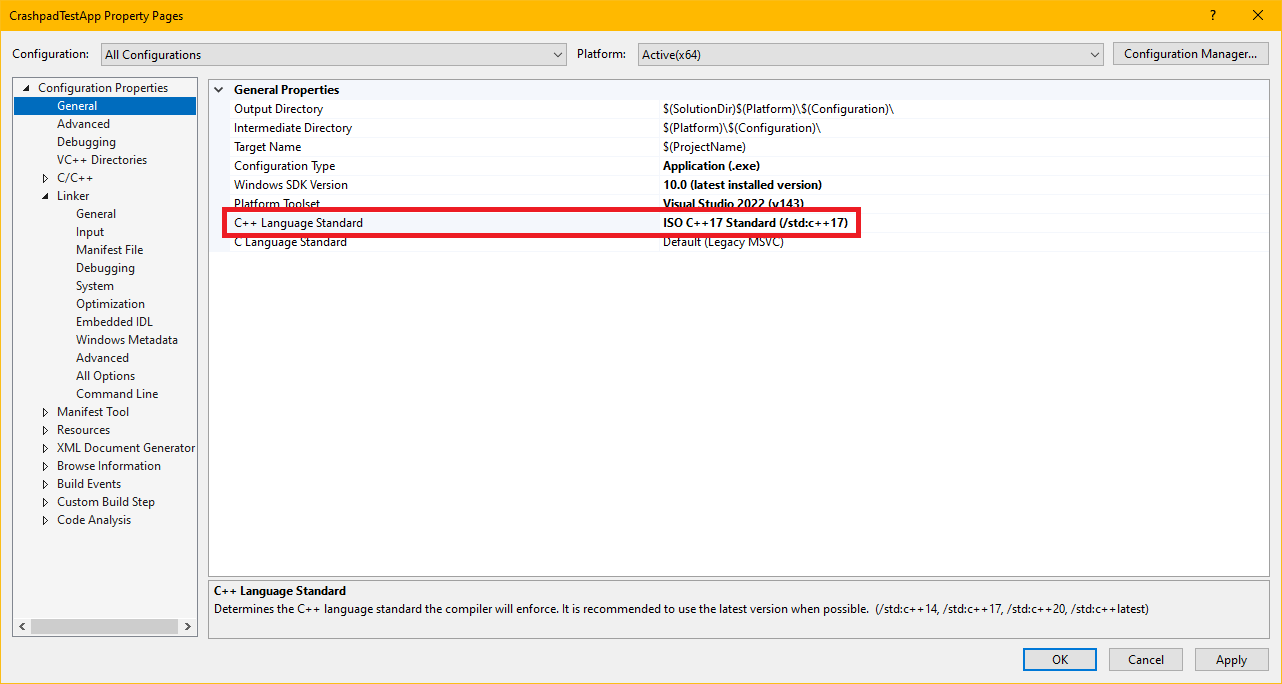
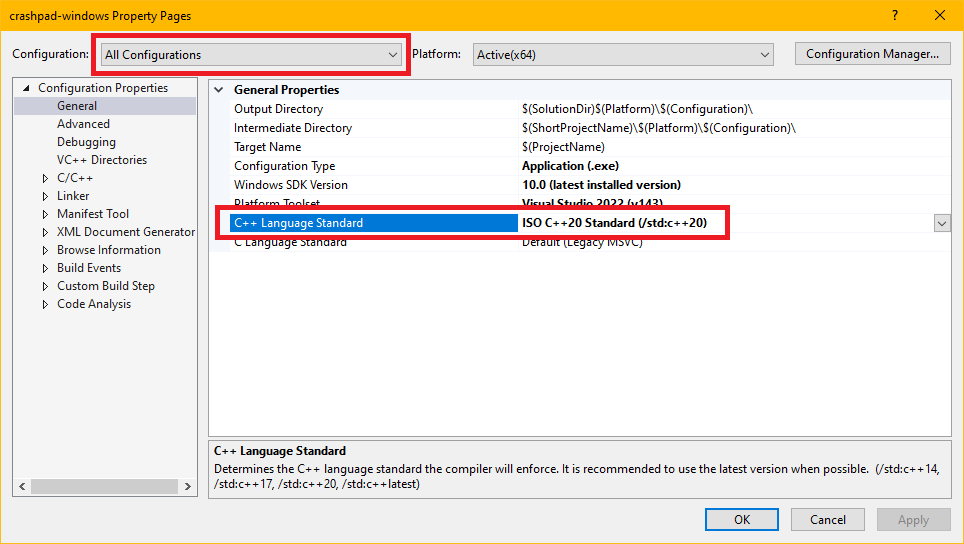
error-reporting/crashpad: update crashpad integration guide
* Reference the integration guide for VS, rather than the nonexistent
   extension.
 * Replace "daily binary builds" with "binary builds".
 * Remove outdated Visual Studio integration guide in crashpad.md and point
   to the updated one in visual-studio.md instead.
 * Updated documentation and corresponding image to specify /std:c++20
   which is now required by Crashpad.
 * Updated documention and corresponding image to specify /DEBUG:FULL and
   not /DEBUG as the latter won't generate proper debug information that
   is usable for distribution.
 * Added section on usage of pre-built binaries hosted in github.

Internal BT-5803

Changed region(s): [[0.0, 0.0, 1.0, 1.0]]

diff --git a/docs/error-reporting/platform-integrations/crashpad.md b/docs/error-reporting/platform-integrations/crashpad.md
@@ -23,9 +23,9 @@ For new users, Backtrace has prepared an enhanced fork of Crashpad, allowing eas
 
 ## Initial Integration
 
-If you are a Windows and Visual Studio user, review the [Backtrace Visual Studio Extension Guide](/error-reporting/platform-integrations/visual-studio/) to simplify the integration of Crashpad into your new application. If you are a Windows and Visual Studio user with an existing application, you can use manual instructions in the Visual Studio section of that guide for a step-by-step guide to integrating with Visual Studio.
+If you are a Windows and Visual Studio user, review the [Crashpad Integration Guide for Visual Studio](/error-reporting/platform-integrations/visual-studio/) to simplify the integration of Crashpad into your new or existing application.
 
-Advanced instructions are available at [the Crashpad home page](https://chromium.googlesource.com/crashpad/crashpad/+/HEAD/doc/developing.md) if you can't find what you're looking for or prefer to build Crashpad from the source. Backtrace's fork of Crashpad is available [on Github](https://github.com/backtrace-labs/crashpad/tree/backtrace), which contains easy [CMake](https://cmake.org/) build instructions and also hosts [daily binary builds for Android, Linux, Windows, Mac and more](https://github.com/backtrace-labs/crashpad/actions). If you would like additional assistance, don't hesitate to contact support@saucelabs.com.
+Advanced instructions are available at [the Crashpad home page](https://chromium.googlesource.com/crashpad/crashpad/+/HEAD/doc/developing.md) if you can't find what you're looking for or prefer to build Crashpad from the source. Backtrace's fork of Crashpad is available [on Github](https://github.com/backtrace-labs/crashpad/tree/backtrace), which contains easy [CMake](https://cmake.org/) build instructions and also hosts [binary builds for Android, Linux, Windows, Mac and more](https://github.com/backtrace-labs/crashpad/releases). If you would like additional assistance, don't hesitate to contact support@saucelabs.com.
 
 ### Update Your Application
 
@@ -65,7 +65,7 @@ arguments.push_back(
 
 ### Crash Handler Parameter
 
-`handler` is a path to an external program responsible for generating and uploading dumps; we recommend it for uploading crashes. Look for `bin/crashpad_handler.exe` on Windows, which is suitable as a default crash handler. See below for a complete example.
+`handler` is a path to an external program responsible for generating and uploading dumps; we recommend it for uploading crashes. Look for `bin/crashpad_handler.exe` on Windows, which is suitable as a default crash handler.
 
 `handler` is executed after the application crashes, so it should be available under the specified path during its execution. That means the handler should be bundled with the application if delivered to the end-users, and its path should be relative or dynamically generated.
 
@@ -73,128 +73,18 @@ arguments.push_back(
 
 See [Windows](https://github.com/backtrace-labs/crashpad/blob/backtrace/examples/windows/demo/demo.cpp), [macOS](https://github.com/backtrace-labs/crashpad/blob/backtrace/examples/macos/demo/demo.cpp), [Android](https://github.com/backtrace-labs/backtrace-android/blob/cf9d827bada51bf4332e2904b0ea06d39b99db8a/backtrace-library/src/main/cpp/backends/crashpad-backend.cpp#L124) and [Linux](https://github.com/backtrace-labs/crashpad/blob/backtrace/examples/linux/demo/demo.cpp) for self-contained example code.
 
-## Manage Symbols
+### Manage Symbols
 
 Symbols are required to determine the source-code mapping of incoming crashes, including function name, source file, and line number. For Backtrace to effectively group and analyze your incoming crashes, you must upload application debug symbols.
 
 To learn more about uploading and managing symbols with Backtrace, see [Symbolication](/error-reporting/project-setup/symbolication/).
 
-## Visual Studio
-
-If you are a Windows and Visual Studio user, review the [Backtrace Visual Studio Extension Guide](/error-reporting/platform-integrations/visual-studio/) to simplify the integration of Crashpad into your application.
-
-:::note
-
-The instructions below are accurate, but consider the extension to minimize the chance of configuration errors.
-
-:::
-
-### Obtain Crashpad
-
-You can build Crashpad from the source or download Backtrace-provided library versions.
-
-:::caution For Windows (x86)
-
-The Visual C++ Redistributable for Visual Studio 2015 might be required if you have a new OS installation and don't have an IDE installed. Make sure to install the following runtime redistributable files for `BacktraceCrashpadWindows.dll`:
-
-```
-  KERNEL32.dll
-    MSVCP140.dll
-    VCRUNTIME140.dll
-    api-ms-win-crt-runtime-l1-1-0.dll
-    api-ms-win-crt-string-l1-1-0.dll
-    api-ms-win-crt-heap-l1-1-0.dll
-    api-ms-win-crt-stdio-l1-1-0.dll
-    api-ms-win-crt-time-l1-1-0.dll
-    api-ms-win-crt-filesystem-l1-1-0.dll
-    ADVAPI32.dll
-```
-
-:::
-
-#### Build From Source
-
-It is always possible to build Crashpad from the source. To do this, see the [Backtrace fork build guide](https://github.com/backtrace-labs/crashpad/blob/backtrace/README.md). Backtrace added [CMake](https://cmake.org/) build scripts, making it easier to build than the original Google fork. If you want to build the Google fork regardless, you can check the [instructions](https://chromium.googlesource.com/crashpad/crashpad/+/HEAD/doc/developing.md).
-
-#### Download Built Libraries
-
-Backtrace provides builds of Crashpad. We recommend using the stable version. The latest stable releases of Backtrace's Crashpad fork are available at [https://github.com/backtrace-labs/crashpad/releases/](https://github.com/backtrace-labs/crashpad/releases/), and the Backtrace fork nightly builds can be found [on GitHub](https://github.com/backtrace-labs/crashpad/actions).
-
-### Integrate Crashpad
-
-After you have built Crashpad or downloaded the pre-built libraries, you must integrate the library into your application. The library is statically linked to your project, so you will not need to distribute additional projects.
-
-There are two versions of `Crashpad` provided in the Backtrace archive.
-
-`lib_mt` contains the Crashpad libraries built with the `/MT` switch for static linking. `lib_md` contains the Crashpad libraries built with the `/MD` switch for dynamic linking.
-
-Use the appropriate version for your application.
-
-### Integrate Into Your Build Process
-
-This section outlines importing the `Crashpad` library into your Visual Studio project.
-
-### Add the Header Files
-
-First, you'll need to add the Crashpad directory in the included path for your application. The header files for Crashpad in the provided `.zip` file are in the included directory.
-
-Go to the project configuration menu (Project > Properties > VC++ Directories) and set `Include Directories` to point to the `include` and `include\mini_chromium` folders of the extracted archive, as shown below.
-
-<img src={useBaseUrl('/img/error-reporting/minidump/include-directories.png')} alt="set include directories"/>
-
-### Add the Libraries
-
-#### Static Linking
-
-Next, you'll need to add the relevant release path (see the table above) to your `Library Directories`(Project > Properties > VC++ Directories). For example, if I am deploying a 64-bit Windows application, the `lib_mt`sub-directory is added to `Library Directories` after downloading the appropriate Crashpad build.
-
-<img src={useBaseUrl('/img/error-reporting/minidump/library-static-linking.png')} alt="library directories"/>
-
-After that is done, you'll need to add the actual set of static libraries for `Crashpad`. Navigate to your linker input settings (Project > Properties > Linker > Input), and add `client.lib;util.lib;base.lib` as additional dependencies. See the screenshot below for an example.
-
-<img src={useBaseUrl('/img/error-reporting/minidump/additional-dependencies.png')} alt="additional dependencies"/>
-
-Remember to use the build of the `Crashpad` library that corresponds with your build configuration. For example, if you are building a 32-bit Debug build, ensure that you reference the `.lib` files from the 32-bit debug build. If you encounter errors involving `ITERATOR_DEBUG_LEVEL`, then there is likely a mismatch between your build configuration and the build of `Crashpad`. To change the build settings, go to Build > Configuration Manager, then change your `Active solution configuration`.
-
-#### Dynamic Linking
-
-If you use dynamic linking (the `\MD` flag), use the `lib_md` sub-directory rather than `lib_mt`. For example, `crashpad\lib_md` rather than `crashpad\lib_mt`.
-
-<img src={useBaseUrl('/img/error-reporting/minidump/dynamic-linking.png')} alt="dynamic linking"/>
-
-### Verify Linker Settings
-
-#### Static Linking
-
-Lastly, ensure you have code generation runtime settings set to a mode compatible with static libraries, such as `Multi-threaded (/MT)`. Go to Project > Properties > C/C++ > Code Generation and update the `Runtime Library` setting.
-
-<img src={useBaseUrl('/img/error-reporting/minidump/runtime-library.png')} alt="runtime library"/>
-
-#### Dynamic Linking
-
-If you are using dynamic linking, then ensure that you use the `/MD` option instead of `/MT`.
-
-### Debug Builds
-
-If you are building in debug mode, ensure that you use the debug version of the linking compiler switches (`/MDd` and `/MTd`):
-
-<img src={useBaseUrl('/img/error-reporting/minidump/debug-build.png')} alt="debug mode"/>
-
-### Ensure Symbol Generation
-
-It is required to upload symbols into Backtrace for intelligent deduplication and classification. This section explains how to enable debug symbols for your application.
-
-Go to Project > Properties > Linker and update the `Generate Debug Info` setting. You'll want to set it to `Generate Debug Information (/DEBUG)` or `Generate Debug Information optimized for sharing and publishing (/DEBUG:FULL)`. We recommend the `/DEBUG` option if you would like to avoid the possibility of a performance impact.
-
-<img src={useBaseUrl('/img/error-reporting/minidump/general-debug-info.png')} alt="debug mode"/>
-
-This setting generates a `.pdb` file for your application in the build output directory. You can manually upload `.sym`, `.pdb`, and archive files containing `.pdb` or `.sym` files into Backtrace or through the command line. It is also possible to hook up Visual Studio to automatically upload symbols as they are generated. Now, you should be able to send crash reports. Ensure you've uploaded your symbols (click on **Symbols** under the Project Configuration page).
-
-For more details, see [Symbolication](/error-reporting/project-setup/symbolication/).
+For Visual Studio specific settings for symbols, see [Crashpad Integration Guide for Visual
+Studio](/error-reporting/platform-integrations/visual-studio/#ensure-symbol-generation).
 
 ### Send Crash Reports
 
-Now you're ready to integrate Crashpad into your application. Add the code from the section [Example code](#example-code) above to do this.
+Now you're ready to integrate Crashpad into your application. Add the code from the section [Example code](#example-code) above or from [Crashpad Integration Guide for Visual Studio](/error-reporting/platform-integrations/visual-studio/#code-samples) to do this.
 
 ### Finish
 

diff --git a/docs/error-reporting/platform-integrations/visual-studio.md b/docs/error-reporting/platform-integrations/visual-studio.md
@@ -29,7 +29,7 @@ cmake --build cbuild --config Release
 
 ### Set Language Standard
 
-Crashpad requires C++17. In project properties, select `All Configurations` and change the C++ Language Standard in the General tab from the default `C++14` to `C++17 (/std:c++17)`, if necessary.
+Crashpad requires C++20. In project properties, select `All Configurations` and change the C++ Language Standard in the General tab from the default `C++14` to `C++20 (/std:c++20)`, if necessary.
 <img src={useBaseUrl('/img/error-reporting/vs-extension/vs-lang.png')} alt="listeners"/>
 
 ### Set Additional Include Directories
@@ -64,10 +64,48 @@ Or, if the configurations are named `Debug` and `Release` then this can be simpl
 
 <img src={useBaseUrl('/img/error-reporting/vs-extension/vs-link.png')} alt="listeners"/>
 
+### Ensure Symbol Generation
+
+It is required to upload symbols into Backtrace for intelligent deduplication and classification. This section explains how to enable debug symbols for your application.
+
+For Windows, Go to Project > Properties > Linker and update the `Generate Debug Info` setting. You'll want to set it to `Generate Debug Information optimized for sharing and publishing (/DEBUG:FULL)`.
+
+<img src={useBaseUrl('/img/error-reporting/minidump/general-debug-info.png')} alt="debug mode"/>
+
+This setting generates a `.pdb` file for your application in the build output directory. You can manually upload `.sym`, `.pdb`, and archive files containing `.pdb` or `.sym` files into Backtrace or through the command line. It is also possible to hook up Visual Studio to automatically upload symbols as they are generated. Be sure to upload the corresponding `.dll` or `.exe` along with the `.pdb`.
+
+## Alternative Integration
+
+### Pre-built Binaries
+
+To use the prebuilt static library and handler from GitHub follow these steps.
+
+:::note
+
+Because crashpad is built in CI as a static library against a single version of Visual Studio there are no guarantees that the library is compatible with later (or even different) versions of Visual Studio. It is recommended to build the distribution, as documented above, against your specific toolchain for debug and release configurations for maximum compatibilty.
+
+:::
+
+Extract the Visual Studio build from [releases](https://github.com/backtrace-labs/crashpad/releases) to your project's `third_party\crashpad` directory.
+
+### Set Additional Include Directories
+
+Add the following include directories in your Visual Studio project for all configurations in C/C++, Additional Include Directories:
+
+- `third_party\crashpad\include`
+
+### Add Additional Library Dependencies
+
+Add the following libraries in the project's Linker, Input, Additional Dependencies for all
+configurations
+
+- `third-party\crashpad\bin\client.lib`
+
 
 ## Code Samples
 
-The following code can be added to your project and can be used to initialize Crashpad in your application.
+For either integration documented above, the following code can be added to your project and can be
+used to initialize Crashpad in your application.
 
 Header, `bt_crashpad.h`
 ```cpp
@@ -183,3 +221,4 @@ In your initialization code,
    …
 }
 ```
+
